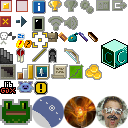
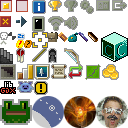
v0.8.2: Finalized layout and visuals for TitleScene.java

Changed region(s): [[0.375, 0.25, 1.0, 0.625]]

diff --git a/core/src/main/java/com/shatteredpixel/shatteredpixeldungeon/scenes/TitleScene.java b/core/src/main/java/com/shatteredpixel/shatteredpixeldungeon/scenes/TitleScene.java
@@ -30,8 +30,10 @@ import com.shatteredpixel.shatteredpixeldungeon.effects.BannerSprites;
 import com.shatteredpixel.shatteredpixeldungeon.effects.Fireball;
 import com.shatteredpixel.shatteredpixeldungeon.messages.Languages;
 import com.shatteredpixel.shatteredpixeldungeon.messages.Messages;
+import com.shatteredpixel.shatteredpixeldungeon.services.news.News;
 import com.shatteredpixel.shatteredpixeldungeon.services.updates.AvailableUpdateData;
 import com.shatteredpixel.shatteredpixeldungeon.services.updates.Updates;
+import com.shatteredpixel.shatteredpixeldungeon.sprites.CharSprite;
 import com.shatteredpixel.shatteredpixeldungeon.ui.Archs;
 import com.shatteredpixel.shatteredpixeldungeon.ui.ExitButton;
 import com.shatteredpixel.shatteredpixeldungeon.ui.Icons;
@@ -47,6 +49,8 @@ import com.watabou.noosa.Image;
 import com.watabou.noosa.audio.Music;
 import com.watabou.utils.ColorMath;
 import com.watabou.utils.DeviceCompat;
+
+import java.util.Date;
 
 public class TitleScene extends PixelScene {
 	
@@ -99,7 +103,7 @@ public class TitleScene extends PixelScene {
 		add( signs );
 
 		final Chrome.Type GREY_TR = Chrome.Type.GREY_BUTTON_TR;
-
+		
 		StyledButton btnPlay = new StyledButton(GREY_TR, Messages.get(this, "enter")){
 			@Override
 			protected void onClick() {
@@ -127,26 +131,7 @@ public class TitleScene extends PixelScene {
 		btnPlay.icon(Icons.get(Icons.ENTER));
 		add(btnPlay);
 
-		//TODO turn this into its own class?
-		StyledButton btnSupport = new StyledButton(GREY_TR, Messages.get(this, "support")){
-			@Override
-			protected void onClick() {
-				WndOptions wnd = new WndOptions(Messages.get(TitleScene.class, "support"),
-						Messages.get(TitleScene.class, "patreon_body"),
-						Messages.get(TitleScene.class, "patreon_button")){
-					@Override
-					protected void onSelect(int index) {
-						if (index == 0){
-							DeviceCompat.openURI("https://www.patreon.com/ShatteredPixel");
-						} else {
-							hide();
-						}
-					}
-				};
-				parent.add(wnd);
-			}
-		};
-		btnSupport.icon(Icons.get(Icons.GOLD));
+		StyledButton btnSupport = new SupportButton(GREY_TR, Messages.get(this, "support"));
 		add(btnSupport);
 
 		StyledButton btnRankings = new StyledButton(GREY_TR,Messages.get(this, "rankings")){
@@ -167,14 +152,13 @@ public class TitleScene extends PixelScene {
 		btnBadges.icon(Icons.get(Icons.BADGES));
 		add(btnBadges);
 
-		ChangesButton btnChanges = new ChangesButton(GREY_TR, Messages.get(this, "changes"));
+		StyledButton btnNews = new NewsButtons(GREY_TR, Messages.get(this, "news"));
+		btnNews.icon(Icons.get(Icons.NEWS));
+		add(btnNews);
+
+		StyledButton btnChanges = new ChangesButton(GREY_TR, Messages.get(this, "changes"));
 		btnChanges.icon(Icons.get(Icons.CHANGES));
 		add(btnChanges);
-
-		//TODO news feed functionality here
-		StyledButton btnNews = new StyledButton(GREY_TR, Messages.get(this, "news"));
-		btnNews.icon(Icons.get(Icons.CHANGES));
-		add(btnNews);
 
 		StyledButton btnSettings = new SettingsButton(GREY_TR, Messages.get(this, "settings"));
 		add(btnSettings);
@@ -206,13 +190,13 @@ public class TitleScene extends PixelScene {
 		} else {
 			btnPlay.setRect(title.x, topRegion+GAP, title.width(), BTN_HEIGHT);
 			align(btnPlay);
-			btnRankings.setRect(btnPlay.left(), btnPlay.bottom()+ GAP, (btnPlay.width()/2)-1, BTN_HEIGHT);
+			btnSupport.setRect(btnPlay.left(), btnPlay.bottom()+ GAP, btnPlay.width(), BTN_HEIGHT);
+			btnRankings.setRect(btnPlay.left(), btnSupport.bottom()+ GAP, (btnPlay.width()/2)-1, BTN_HEIGHT);
 			btnBadges.setRect(btnRankings.right()+2, btnRankings.top(), btnRankings.width(), BTN_HEIGHT);
 			btnNews.setRect(btnRankings.left(), btnRankings.bottom()+ GAP, btnRankings.width(), BTN_HEIGHT);
 			btnChanges.setRect(btnNews.right()+2, btnNews.top(), btnNews.width(), BTN_HEIGHT);
 			btnSettings.setRect(btnNews.left(), btnNews.bottom()+GAP, btnRankings.width(), BTN_HEIGHT);
 			btnAbout.setRect(btnSettings.right()+2, btnSettings.top(), btnSettings.width(), BTN_HEIGHT);
-			btnSupport.setRect(btnPlay.left(), btnAbout.bottom()+ GAP, btnPlay.width(), BTN_HEIGHT);
 		}
 
 		BitmapText version = new BitmapText( "v" + Game.version, pixelFont);
@@ -221,8 +205,6 @@ public class TitleScene extends PixelScene {
 		version.x = w - version.width() - 4;
 		version.y = h - version.height() - 2;
 		add( version );
-		
-		int pos = 2;
 
 		fadeIn();
 	}
@@ -233,7 +215,41 @@ public class TitleScene extends PixelScene {
 		add( fb );
 	}
 
-	//TODO change icon?
+	private static class NewsButtons extends StyledButton {
+
+		public NewsButtons( Chrome.Type type, String label ){
+			super(type, label);
+			if (SPDSettings.news()) News.checkForNews();
+		}
+
+		int unreadCount = -1;
+
+		@Override
+		public void update() {
+			super.update();
+
+			if (unreadCount == -1 && News.articlesAvailable()){
+				unreadCount = News.unreadArticles(new Date(SPDSettings.newsLastRead()));
+				if (unreadCount > 0){
+					unreadCount = Math.min(unreadCount, 9);
+					text(text() + "(" + unreadCount + ")");
+				} else {
+					SPDSettings.newsLastRead(Game.realTime);
+				}
+			}
+
+			if (unreadCount > 0){
+				textColor(ColorMath.interpolate( 0xFFFFFF, Window.SHPX_COLOR, 0.5f + (float)Math.sin(Game.timeTotal*5)/2f));
+			}
+		}
+
+		@Override
+		protected void onClick() {
+			super.onClick();
+			//ShatteredPixelDungeon.switchNoFade( NewsScene.class );
+		}
+	}
+
 	private static class ChangesButton extends StyledButton {
 
 		public ChangesButton( Chrome.Type type, String label ){
@@ -252,7 +268,7 @@ public class TitleScene extends PixelScene {
 					updateShown = true;
 					text(Messages.get(TitleScene.class, "update"));
 				}
-				textColor(ColorMath.interpolate( 0xFFFFFF, Window.SHPX_COLOR, 0.5f + (float)Math.sin(Game.timeTotal*4)/2f));
+				textColor(ColorMath.interpolate( 0xFFFFFF, Window.SHPX_COLOR, 0.5f + (float)Math.sin(Game.timeTotal*5)/2f));
 			}
 		}
 
@@ -285,17 +301,13 @@ public class TitleScene extends PixelScene {
 
 	}
 
-	//TODO maybe have this blink a bit differently than the language button used to
 	private static class SettingsButton extends StyledButton {
-
-		boolean blinking;
 
 		public SettingsButton( Chrome.Type type, String label ){
 			super(type, label);
 			if (Messages.lang().status() == Languages.Status.INCOMPLETE){
 				icon(Icons.get(Icons.LANGS));
 				icon.hardlight(1.5f, 0, 0);
-				blinking = true;
 			} else {
 				icon(Icons.get(Icons.PREFS));
 			}
@@ -305,17 +317,43 @@ public class TitleScene extends PixelScene {
 		public void update() {
 			super.update();
 
-			if (blinking){
-				icon.am = (float)Math.abs(Math.cos( Game.timeTotal ));
+			if (Messages.lang().status() == Languages.Status.INCOMPLETE){
+				textColor(ColorMath.interpolate( 0xFFFFFF, CharSprite.NEGATIVE, 0.5f + (float)Math.sin(Game.timeTotal*5)/2f));
 			}
 		}
 
 		@Override
 		protected void onClick() {
-			if (blinking){
+			if (Messages.lang().status() == Languages.Status.INCOMPLETE){
 				WndSettings.last_index = 4;
 			}
 			ShatteredPixelDungeon.scene().add(new WndSettings());
+		}
+	}
+
+	private static class SupportButton extends StyledButton{
+
+		public SupportButton( Chrome.Type type, String label ){
+			super(type, label);
+			icon(Icons.get(Icons.GOLD));
+			textColor(Window.TITLE_COLOR);
+		}
+
+		@Override
+		protected void onClick() {
+			WndOptions wnd = new WndOptions(Messages.get(TitleScene.class, "support"),
+					Messages.get(TitleScene.class, "patreon_body"),
+					Messages.get(TitleScene.class, "patreon_button")){
+				@Override
+				protected void onSelect(int index) {
+					if (index == 0){
+						DeviceCompat.openURI("https://www.patreon.com/ShatteredPixel");
+					} else {
+						hide();
+					}
+				}
+			};
+			parent.add(wnd);
 		}
 	}
 }

diff --git a/core/src/main/java/com/shatteredpixel/shatteredpixeldungeon/ui/Icons.java b/core/src/main/java/com/shatteredpixel/shatteredpixeldungeon/ui/Icons.java
@@ -69,6 +69,7 @@ public enum Icons {
 	GOLD,
 	RANKINGS,
 	BADGES,
+	NEWS,
 	CHANGES,
 	SHPX,
 	
@@ -193,14 +194,17 @@ public enum Icons {
 		case BADGES:
 			icon.frame( icon.texture.uvRect( 34, 64, 50, 80 ) );
 			break;
+		case NEWS:
+			icon.frame( icon.texture.uvRect( 51, 64, 67, 79 ) );
+			break;
 		case CHANGES:
-			icon.frame( icon.texture.uvRect( 51, 64, 68, 79 ) );
+			icon.frame( icon.texture.uvRect( 68, 64, 83, 79 ) );
 			break;
 		case SHPX:
-			icon.frame( icon.texture.uvRect( 68, 64, 84, 80 ) );
+			icon.frame( icon.texture.uvRect( 85, 64, 101, 80 ) );
 			break;
 		case GOLD:
-			icon.frame( icon.texture.uvRect( 85, 64, 102, 80 ) );
+			icon.frame( icon.texture.uvRect( 102, 64, 119, 80 ) );
 			break;
 		
 		case LIBGDX:
@@ -231,7 +235,7 @@ public enum Icons {
 			icon.scale.set(PixelScene.align(0.49f));
 			break;
 		case CUBE_CODE:
-			icon.frame( icon.texture.uvRect( 101, 39, 128, 69 ) );
+			icon.frame( icon.texture.uvRect( 101, 32, 128, 62 ) );
 			icon.scale.set(PixelScene.align(0.49f));
 			break;
 

diff --git a/core/src/main/java/com/shatteredpixel/shatteredpixeldungeon/ui/StyledButton.java b/core/src/main/java/com/shatteredpixel/shatteredpixeldungeon/ui/StyledButton.java
@@ -104,6 +104,10 @@ public class StyledButton extends Button {
 		text.text( value );
 		layout();
 	}
+
+	public String text(){
+		return text.text();
+	}
 	
 	public void textColor( int value ) {
 		text.hardlight( value );
